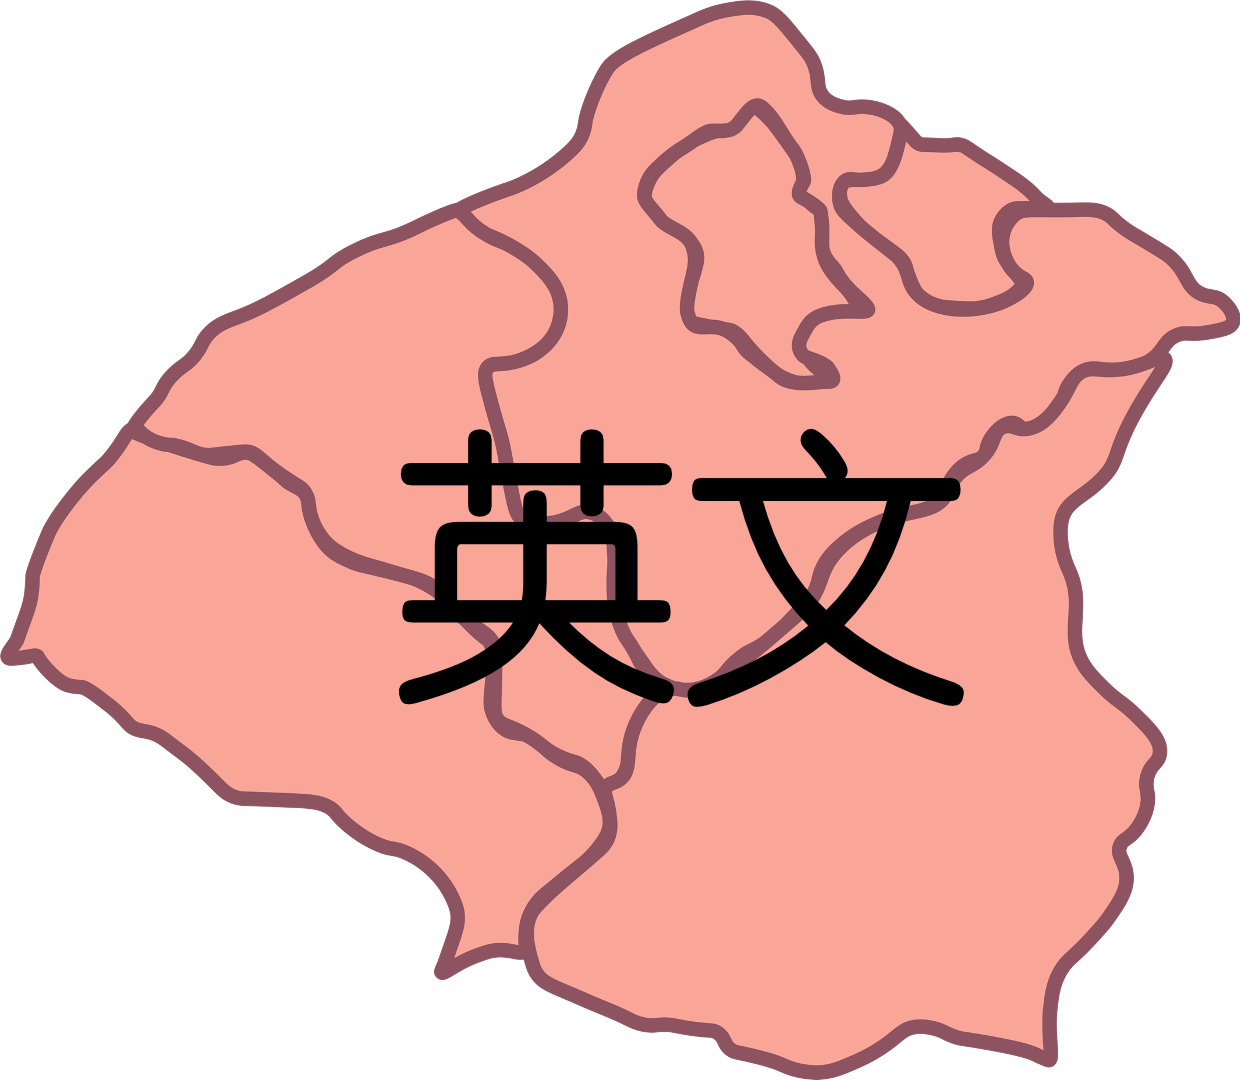
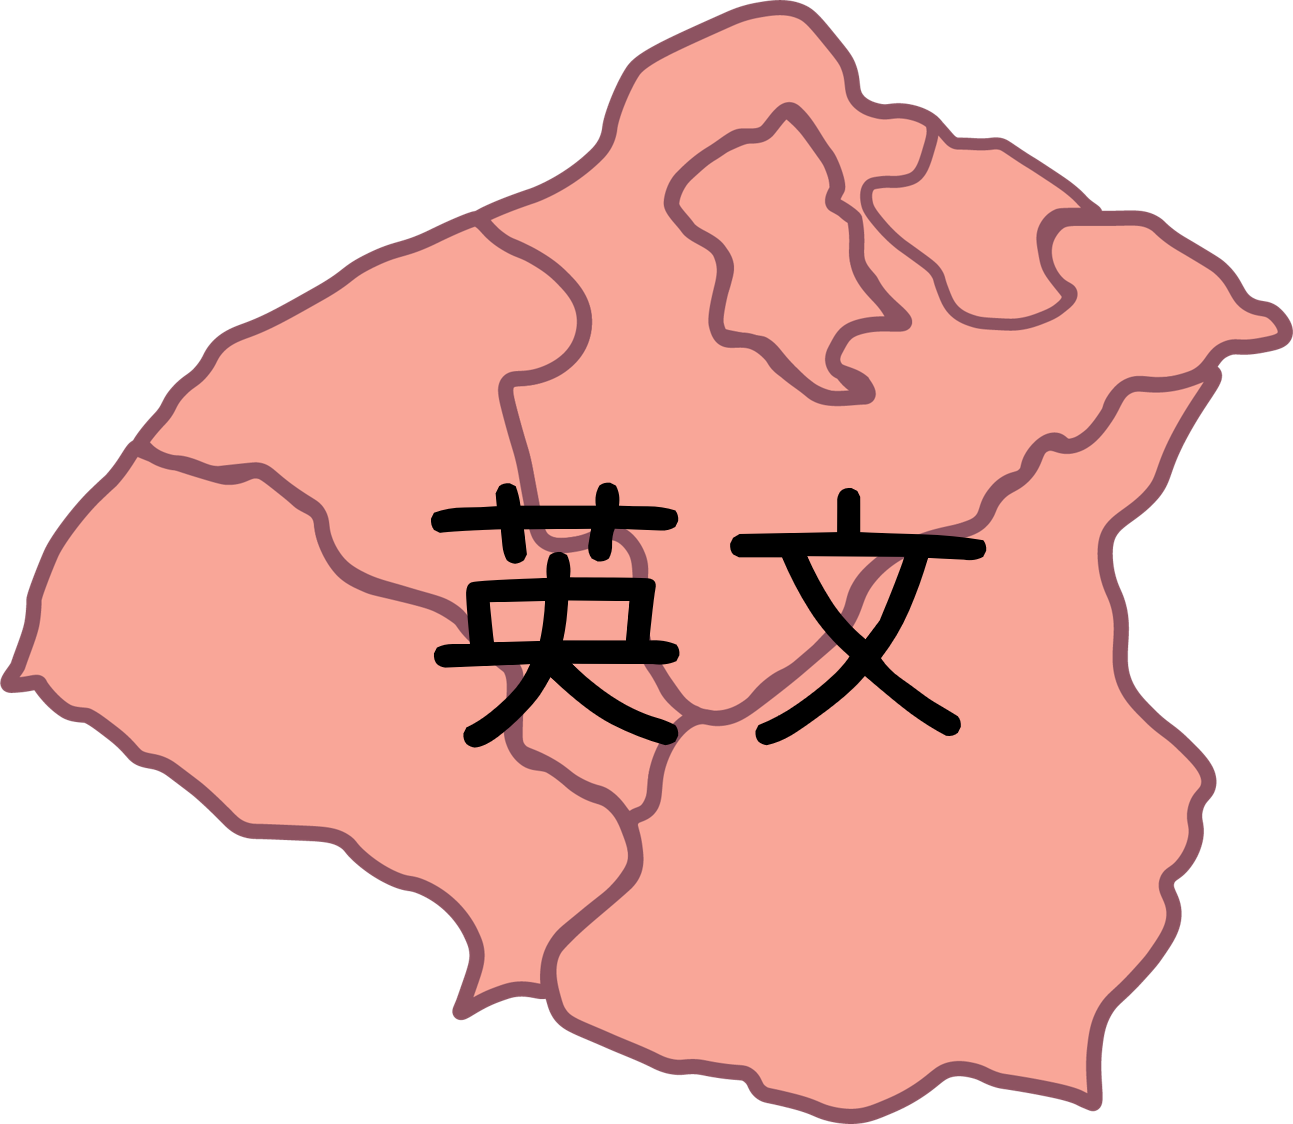
Change four region to smaller picture

diff --git a/view/level/taiwan.html b/view/level/taiwan.html
@@ -64,7 +64,7 @@
 
 <body>
     <div class="map">
-        <img class="mapTaiwan" src="../../image/map/Taiwan_big.png" />
+        <img class="mapTaiwan" src="../../image/map/Taiwan_four_region.png" />
         <img class="north" src="../../image/map/NorthRegion_text.png" onclick="alert('尚未開發')"/>
         <img class="sorth" src="../../image/map/SorthRegion_text.png" onclick="location.href='../../view/level/sorthRegion.html'"/>
         <img class="east" src="../../image/map/EastRegion_text.png" onclick="location.href='../../view/level/eastRegion.html'"/>
